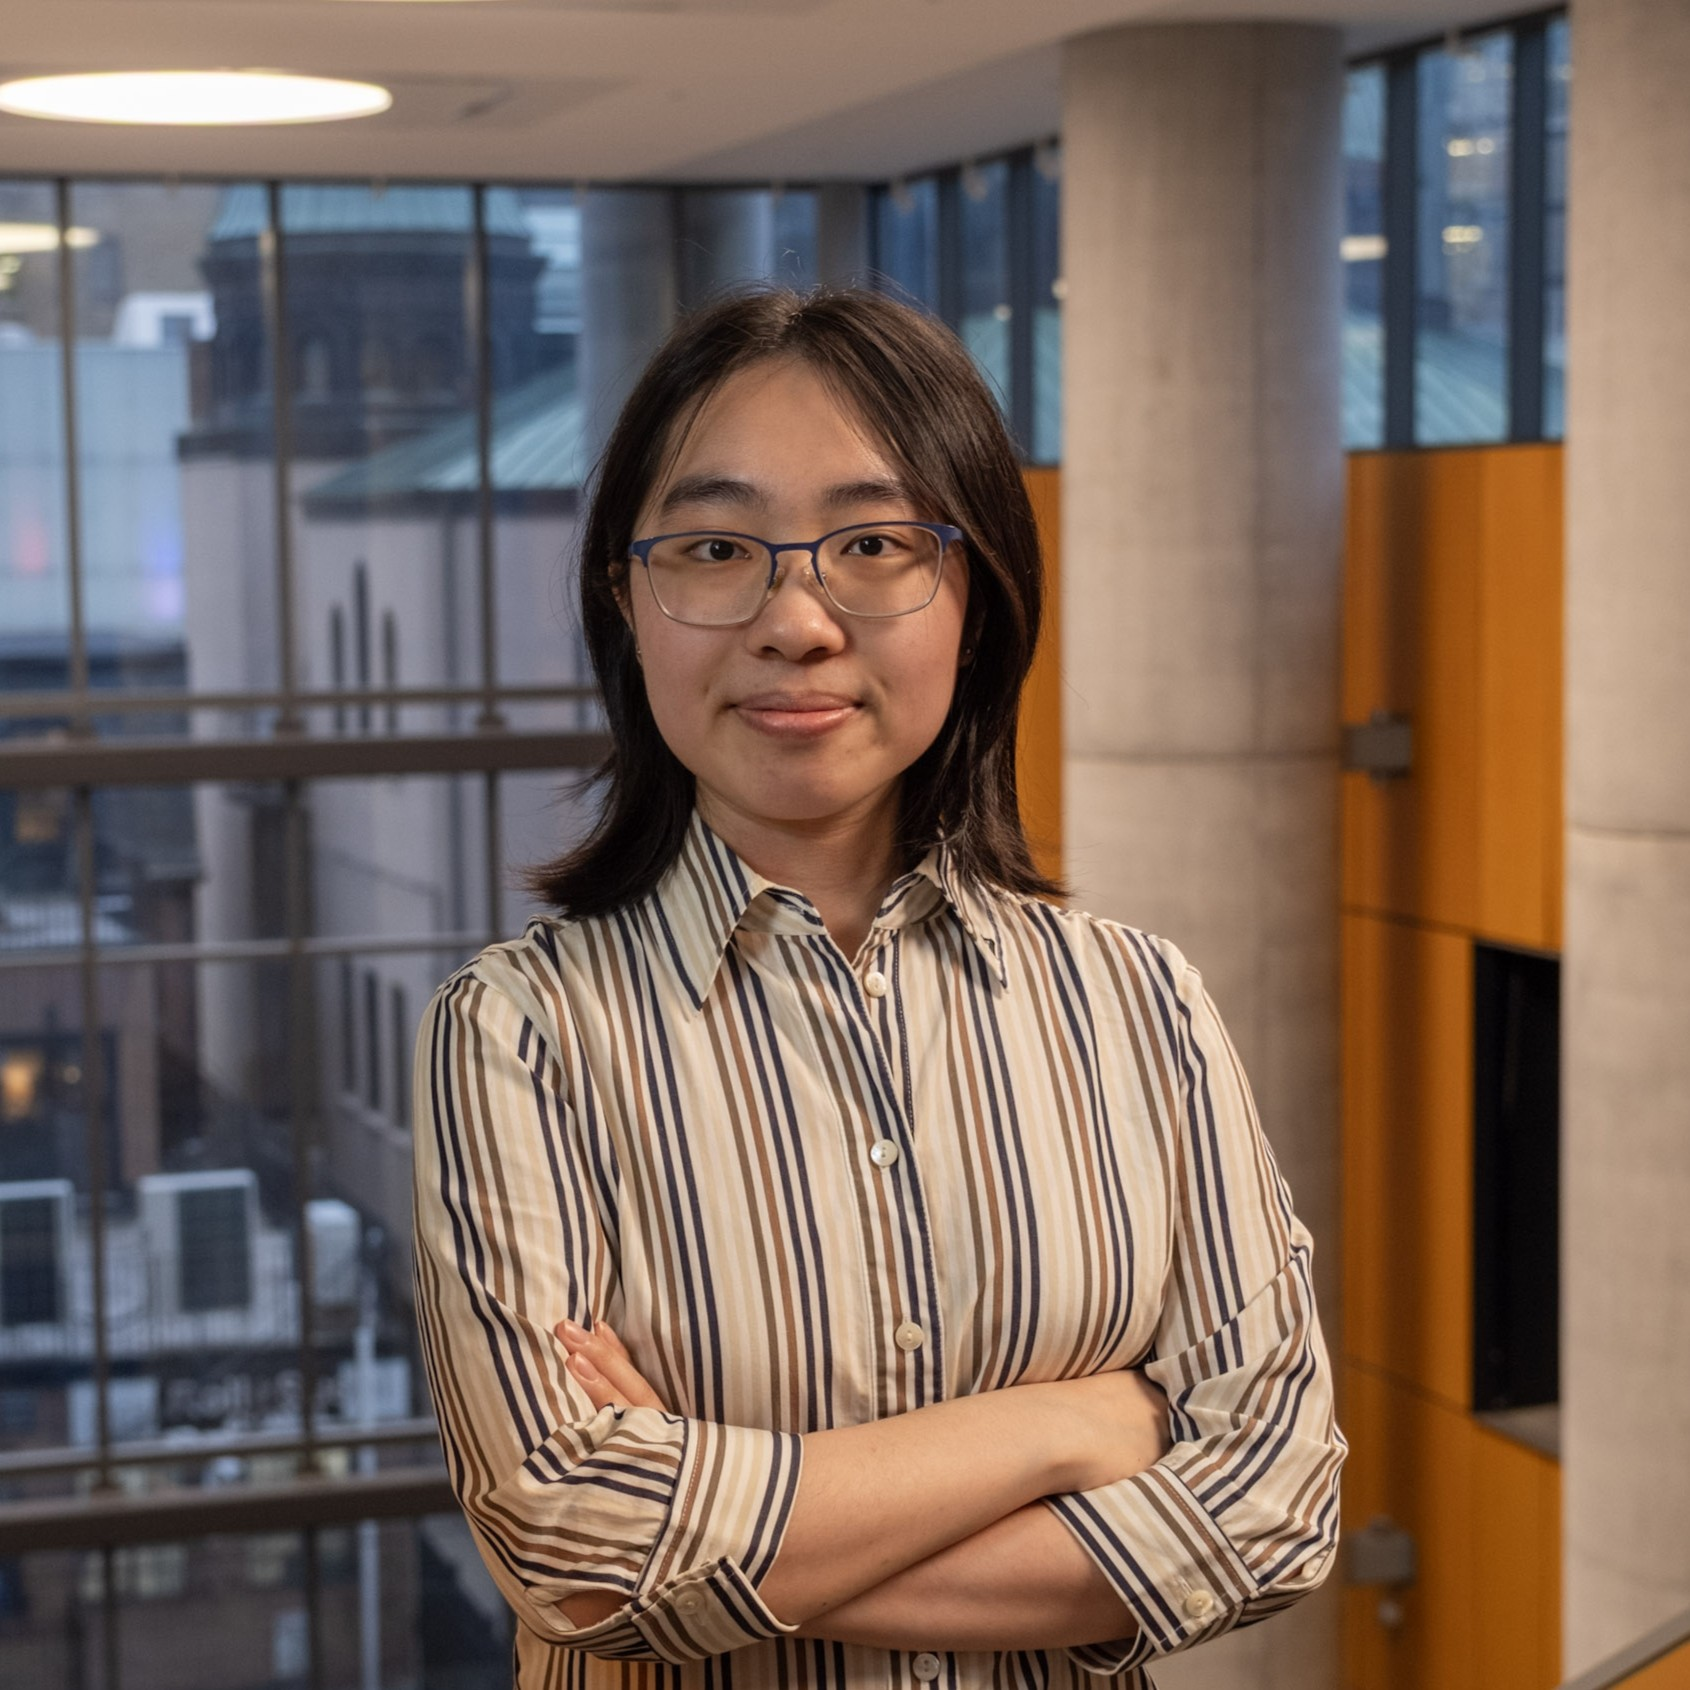
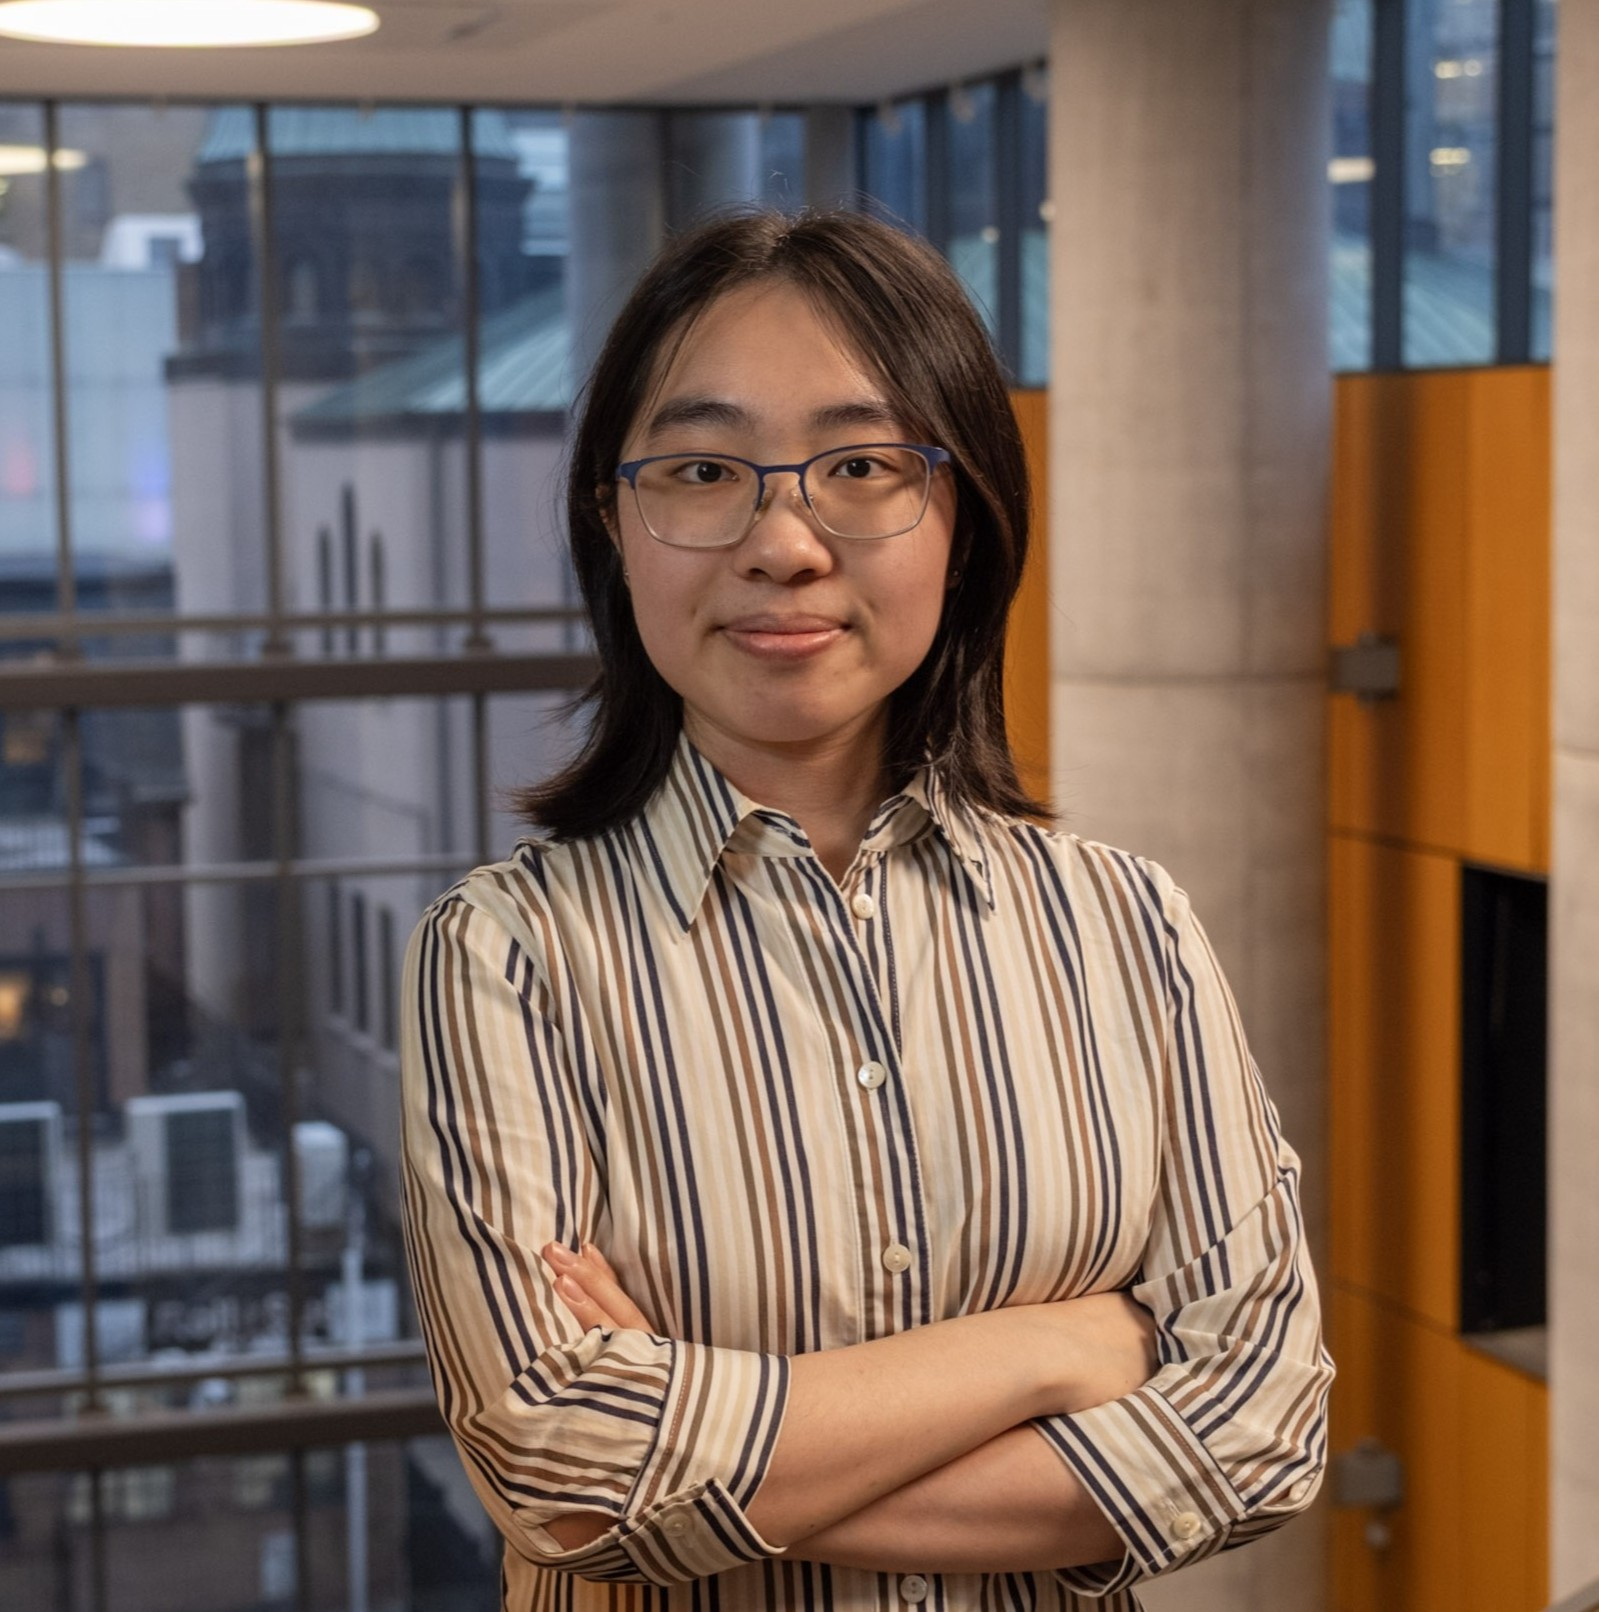
update

diff --git a/index.html b/index.html
@@ -30,7 +30,7 @@
                 <ul>
                     <li>
                         <a href="#section-home">
-                            <img src="images/headshot.jpg" width="50" height="50">
+                            <img class="resize" src="images/headshot cropped.jpg">
                         </a>
                     </li>
                     <li>
@@ -50,7 +50,7 @@
                         <div class="dropdown-menu">
                             <ul>
                                 <li>
-                                    <a href="sublinks/simple-banking-application.html">SIMPLE BANKING APPLICATION</a>
+                                    <a href="sublinks/simple-bank-application.html">SIMPLE BANKING APPLICATION</a>
                                 </li>
                                 <li>
                                     <a href="#">SIMPLE CPU</a>
@@ -80,7 +80,7 @@
     <!--HOME PAGE-->
     <section class="home" id="section-home">
         <div class="container-sm-full">
-            <div class="home-content hidden-animation">
+            <div class="home-content">
                 <h1 class="home-heading text-xxl">
                     Hi, I'm <span style="color:#00ff94;">Scarlett</span>!<br>
                     Welcome to my portfolio.
@@ -90,7 +90,7 @@
                 </p>
                 <!--Social links-->
                 <div class="home-links">
-                    <a href="mailto:scarlettsaur@gmail.com">
+                    <a href="https://mail.google.com/mail/?view=cm&fs=1&to=scarlettsaur@gmail.com">
                         <i class="fa fa-envelope"></i>
                     </a>
                     <a href="https://www.linkedin.com/in/scarlett-li-a052b9251/"> 
@@ -350,19 +350,22 @@
                     <h2>Metroplitan Engineering Competition 2024: <span style="color:#00ff94;">Consulting engineering</span></h2>
                     <div class="project-description">
                         <h4 class="text-right">Purpose:</h4>
-                        <p>Come up with way(s) to improve Toronto's transpotation system.</p>
+                        <p>Propose a realisitc approach to improve Toronto's transpotation system.</p>
                     </div>
                     <div class="project-description">
                         <h4 class="text-right">Team:</h4>
-                        <p>Working in a design group of four (4) undergraduate engineering students.</p>
+                        <p>
+                            Working in a design group of four (4) undergraduate engineering students:
+                            <a href="#">Azaan Cheema</a>, <a href="#">Hisham El-Hossaini</a>, <a href="#">Rita Alexie Flores</a>
+                        </p>
                     </div>
                     <div class="project-description">
                         <h4 class="text-right">Requirements:</h4>
-                        <p>Write a detailed report with a presentation.</p>
+                        <p>Write a detailed report (less than 10 pages) with a presentation.</p>
                     </div>
                     <div class="project-description">
                         <h4 class="text-right">Contributions:</h4>
-                        <p></p>
+                        <p>Research and idea proposal.</p>
                     </div>
                     <h5>
                         <!--<a href="#">See more details<i class="fa-solid fa-angles-right"></i></a>-->
@@ -379,6 +382,7 @@
                         <li class="btn">CSS</li>
                         <li class="btn">JavaScript</li>
                         <li class="btn">Web design</li>
+                        <li class="btn">Canva</li>
                         <li class="btn">Apache 2.0</li>
                         <li class="btn">Port forwarding</li>
                     </ul>
@@ -391,7 +395,10 @@
                     </div>
                     <div class="project-description">
                         <h4 class="text-right">Design:</h4>
-                        <p></p>
+                        <p>
+                            The layout of the website was first created using canva and was then programmed using HTML, 
+                            CSS, and JavaScript.
+                        </p>
                     </div>
                     <h5>
                         <!--<a href="#">See more details<i class="fa-solid fa-angles-right"></i></a>-->
@@ -434,8 +441,9 @@
                 <div>
                     <h2 class="text-md">Let's talk!</h2>
                     <p>
-                        If you have any questions or would like to reach out, feel free to fill out the form and 
-                        I will get back to you at my earliest availability.
+                        If you have any questions or would like to reach out, feel free to fill out the form or 
+                        <a href="https://mail.google.com/mail/?view=cm&fs=1&to=scarlettsaur@gmail.com">email me directly
+                        </a> and I will get back to you at my earliest availability.
                     </p>
                     <img src="images/kirby-pink.gif" width="150" height="150">
                 </div>
@@ -457,6 +465,9 @@
         <div class="container">
             <hr>
             <div class="footer-grid">
+                <div>
+                    Thanks for checking out my portfolio!
+                </div>
                 <div class="contact-me">
                     <ul>
                         <li>
@@ -472,7 +483,7 @@
                 </div>
                 <!--Social links-->
                 <div class="home-links">
-                    <h4>Connect with me</h4>
+                    <h4>Socials</h4>
                     <a href="https://www.linkedin.com/in/scarlett-li-a052b9251/"> 
                         <i class="fa-brands fa-linkedin"></i>
                     </a>

diff --git a/sublinks/simple-CPU.html b/sublinks/simple-CPU.html
@@ -30,7 +30,7 @@
                 <ul>
                     <li>
                         <a href="../index.html#section-home">
-                            <img src="../images/kirby20th.png" width="50" height="50">
+                            <img class="resize" src="../images/headshot cropped.jpg">
                         </a>
                     </li>
                     <li>
@@ -50,19 +50,21 @@
                         <div class="dropdown-menu">
                             <ul>
                                 <li>
-                                    <a href="#">BANK APPLICATION</a>
+                                    <a href="#">SIMPLE BANKING APPLICATION</a>
                                 </li>
                                 <li>
-                                    <a href="#">8-BIT CPU</a>
+                                    <a href="#">SIMPLE CPU</a>
                                 </li>
+                                <!--
                                 <li>
                                     <a href="#">HOMELAB</a>
                                 </li>
+                                -->
                                 <li>
-                                    <a href="#">PORTFOLIO WEBSITE</a>
+                                    <a href="#">TMU MEC 2024</a>
                                 </li>
                                 <li>
-                                    <a href="#">TMU MEC COMPETITION 2024</a>
+                                    <a href="#">PORTFOLIO WEBSITE</a>
                                 </li>
                             </ul>
                         </div>

diff --git a/css/style.css b/css/style.css
@@ -87,12 +87,16 @@ ul {
     align-items: center;
 }
 
-.navbar ul li a {
+.navbar .main-menu ul li a {
     padding: 10px 20px;
     display: block;
     font-weight: 600px;
     transition: 0.5s;
     color: var(--pale-yellow);
+}
+
+.navbar .logo li {
+    padding: 10px;
 }
 
 .navbar .main-menu ul li a:hover {
@@ -103,8 +107,10 @@ ul {
     margin-left: 15px;
 }
 
-.navbar img {
-    clip-path: circle(50%);
+.navbar .resize {
+    width: 50px;
+    height: 50px;
+    clip-path: circle(50% at center);
 }
 
 /*Dropdown for projects list*/
@@ -353,6 +359,10 @@ ul {
     grid-column-gap: 40px;
 }
 
+.contact-page a {
+    text-decoration: underline;
+}
+
 .contact-page .email-form {
     display: flex;
     flex-direction: column;
@@ -411,7 +421,7 @@ ul {
 
 .footer .footer-grid {
     display: grid;
-    grid-template-columns: 1fr 1fr;
+    grid-template-columns: 1fr 1fr 1fr;
     grid-column-gap: 40px;
 }
 
@@ -435,13 +445,13 @@ ul {
     margin: 0 auto;
     /*padding-top, padding-right, padding-bottom, padding-left*/
     padding: 90px 30px 0px 30px;
-    min-height: 100vh;
+    min-height: 100dvh;
 }
 
 .container-sm-full {
     max-width: 75%;
     margin: 0 auto;
-    height: 100vh;
+    height: 100dvh;
 }
 
 /*Buttons*/
@@ -470,10 +480,11 @@ ul {
 }
 
 .text-lg {
-    font-size: 1.4rem;
+    font-size: 2.2rem;
     line-height: 1.4;
-    font-weight: normal;
-    margin: 30px 0 20px;
+    font-weight: 500;
+    /*padding-top, padding-right, padding-bottom, padding-left*/
+    margin: 0 20px 20px 0;
 }
 
 .text-md {

diff --git a/sublinks/simple-bank-application.html b/sublinks/simple-bank-application.html
@@ -30,7 +30,7 @@
                 <ul>
                     <li>
                         <a href="../index.html#section-home">
-                            <img src="../images/profile picture.jpg" width="50" height="50">
+                            <img class="resize" src="../images/headshot cropped.jpg">
                         </a>
                     </li>
                     <li>
@@ -77,10 +77,10 @@
         </div>
     </nav>
 
-
+    <!--PAGE CONTENT-->
     <div class="simple-banking-application">
         <div class="container-full">
-            <h1 class="text-xl">Simple bank account application</h1>
+            <h1 class="text-lg">Simple Bank Account Application</h1>
             
             <img src="../images/project-images/simple-bank-application/Class Diagram.png">
             <img src="../images/project-images/simple-bank-application/Use Case Diagram.png">

diff --git a/js/main.js b/js/main.js
@@ -43,9 +43,12 @@ document.addEventListener('DOMContentLoaded', () => {
 
 
 //PAGE ANIMATIONS
+//Note: only animates in once
 const observer = new IntersectionObserver((entries) => {
     entries.forEach((entry) => {
-        entry.target.classList.toggle('show', entry.isIntersecting);
+        if (entry.isIntersecting) {
+            entry.target.classList.add('show');
+        }
     });
 });
 
